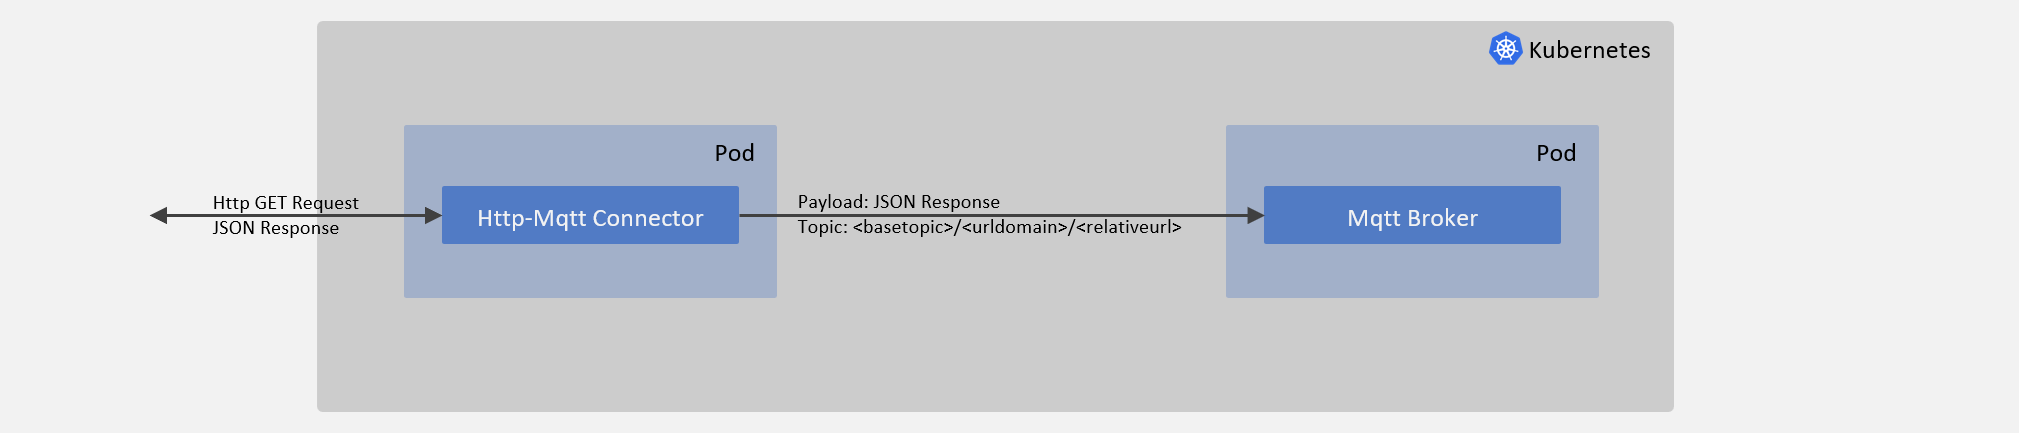
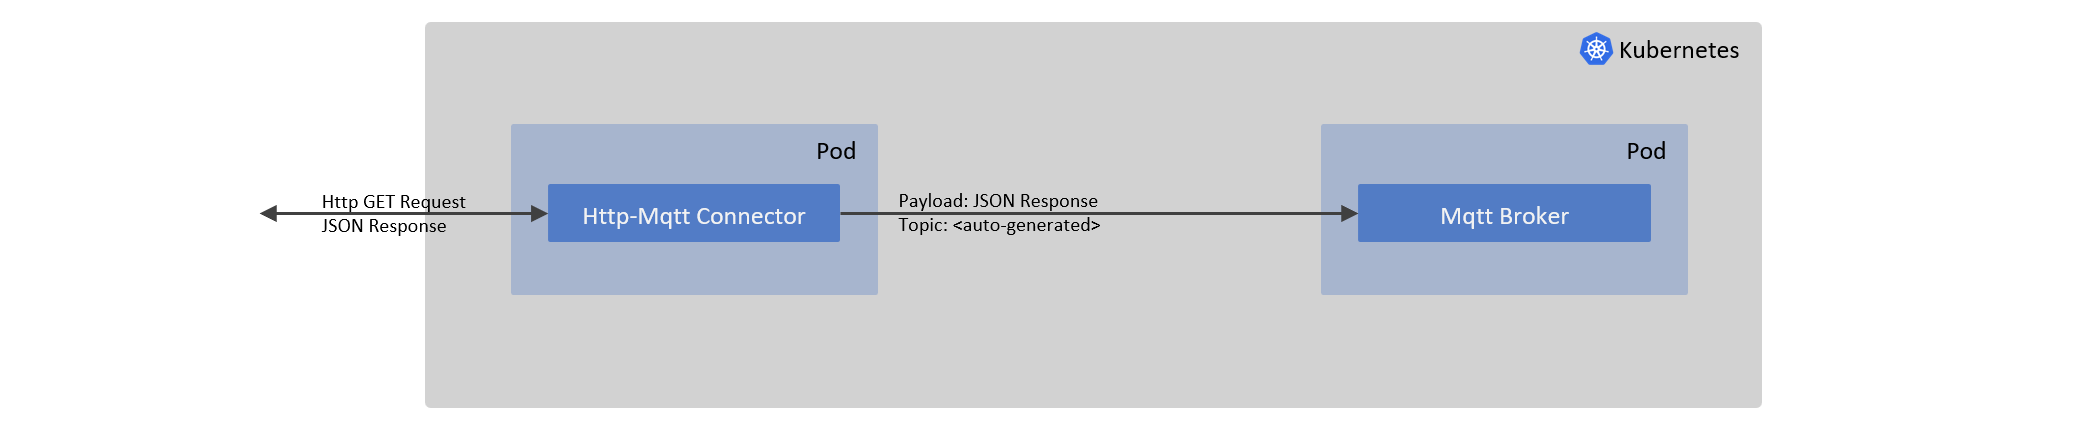
Updated docs, removed requirement for replacement section.

Changed region(s): [[0.0624, 0.0302, 0.8425, 0.9652]]

diff --git a/Http.Mqtt.Connector.Svc/MqttDataSink.cs b/Http.Mqtt.Connector.Svc/MqttDataSink.cs
@@ -69,7 +69,7 @@ public class MqttDataSink : IDataSink
         _sourceId = sourceId ?? throw new ArgumentNullException(nameof(sourceId));
         _initialBackoffDelayInMilliseconds = initialBackoffDelayInMilliseconds;
         _maxBackoffDelayInMilliseconds = maxBackoffDelayInMilliseconds;
-        _topicStringReplacements = topicStringReplacements ?? throw new ArgumentNullException(nameof(topicStringReplacements));
+        _topicStringReplacements = topicStringReplacements;
 
         // Generate the topic name for MQTT sink
         ArgumentNullException.ThrowIfNull(baseTopic);
@@ -168,10 +168,13 @@ public class MqttDataSink : IDataSink
             hash.Append(bytes[i].ToString("x2"));
         }
 
-        // Replace invalid characters in the topic name.
-        foreach (var replacement in _topicStringReplacements)
+        // Replace invalid strings in the topic name if configured.
+        if (_topicStringReplacements is not null)
         {
-            topic = topic.Replace(replacement.OldValue, replacement.NewValue, StringComparison.InvariantCultureIgnoreCase);
+            foreach (var replacement in _topicStringReplacements)
+            {
+                topic = topic.Replace(replacement.OldValue, replacement.NewValue, StringComparison.InvariantCultureIgnoreCase);
+            }
         }
 
         return $"{baseTopic}{hash.ToString()}/{topic}";

diff --git a/docs/AppSettings.md b/docs/AppSettings.md
@@ -4,16 +4,35 @@
 
 The appsettings.json example below is configured to poll the following endpoints and send the respective responses to the configured MQTT broker.
 
-## Supported Macros
+## Supported Customizations
 
-Relative Urls support the following macros:
+### Relative Urls Support the Following Macros
 
-1. ```{yyyy-mm-dd}``` will replace it with the current date, example
+1. ```{yyyy-mm-dd}``` will replace it with the current date, example:
 
    ```/api/breed/hound/list/{yyyy-mm-dd}``` -> ```/api/breed/hound/list/2024-10-09```
-2. ```{yyyy-mm}``` will replace it with the current date, example
+2. ```{yyyy-mm}``` will replace it with the current date, example:
 
    ```/api/breed/hound/{yyyy-mm}/list``` -> ```/api/breed/hound/2024-10/list```
+
+### MQTT Topic Name Generation and Customization
+
+MQTT topic name is auto generated by the application for each relative endpoint, as an example:
+
+Given the following (from example config below):
+
+1. Base Topic: `azure-iot-operations/data/`
+2. Endpoint Url: `https://dog.ceo`
+3. Relative Endpoint Url: `/api/breed/hound/list`
+
+Steps used to generate the MQTT topic are:
+
+1. Acquire unique source Id of the source where data is read, http in this instance will have a source Id as a fully qualified url i.e. "Endpoint Url + Relative Endpoint Url" (`https://dog.ceo/api/breed/hound/list`).
[1 lines of base64/hex data omitted]
+3. Replace characters and strings from config section `TopicStringReplacements` in source Id i.e. `https-//dog_ceo/api/breed/hound/list`.
+4. Concatenate strings using the formula `<Base Topic> + <SHA256 Hash from Step 2> + <Source Id from Step 3>` i.e. `azure-iot-operations/data/8bed43594758bdc7252817cb47391a06bc4a065ab78b1e63bfe6349439430165/https-//dog_ceo/api/breed/bulldog/list`
+
+> **Note:** AIO's current version (v0.8.32) has a bug in UI which does not allow all valid MQTT topic name characters e.g. dot(.), colon (:) to be configured. `TopicStringReplacements` section in the config below allows you to replace these characters/strings in the default generated (as above) topic name.
 
 ## Example appsettings.json for AIO MQTT broker
 
@@ -58,7 +77,33 @@ Relative Urls support the following macros:
     "UseTls": true,
     "SatFilePath": "/var/run/secrets/tokens/broker-sat",
     "CaFilePath": "/var/run/certs/ca.crt",
-    "BaseTopic": "azure-iot-operations/data/"
+    "BaseTopic": "azure-iot-operations/data/",
+    "TopicStringReplacements": [
+      {
+        "OldValue": "#",
+        "NewValue": "_"
+      },
+      {
+        "OldValue": "+",
+        "NewValue": "_"
+      },
+      {
+        "OldValue": ".",
+        "NewValue": "_"
+      },
+      {
+        "OldValue": "{",
+        "NewValue": "_"
+      },
+      {
+        "OldValue": "}",
+        "NewValue": "_"
+      },
+      {
+        "OldValue": ":",
+        "NewValue": "-"
+      }
+    ]
   },
   "Logging": {
     "LogLevel": {
@@ -112,7 +157,33 @@ Relative Urls support the following macros:
     "UseTls": false,
     "Username": "",
     "Password": "",
-    "BaseTopic": "azure-iot-operations/data/"
+    "BaseTopic": "azure-iot-operations/data/",
+    "TopicStringReplacements": [
+      {
+        "OldValue": "#",
+        "NewValue": "_"
+      },
+      {
+        "OldValue": "+",
+        "NewValue": "_"
+      },
+      {
+        "OldValue": ".",
+        "NewValue": "_"
+      },
+      {
+        "OldValue": "{",
+        "NewValue": "_"
+      },
+      {
+        "OldValue": "}",
+        "NewValue": "_"
+      },
+      {
+        "OldValue": ":",
+        "NewValue": "-"
+      }
+    ]
   },
   "Logging": {
     "LogLevel": {

diff --git a/README.md b/README.md
@@ -6,7 +6,7 @@ A repo to periodically read data from RESTful APIs and publish it on MQTT broker
 
 ![Design](docs/Design.png)
 
-> **Note:** A temporary fix has been made to this repo to remove dots (.) from `<urldomain>` and `<relativeurl>` in the topic creation macro, due to a bug in AIO. Dots (.) are replaced with underscores (_).
+> **Note:** To understand MQTT topic generation and its customization options please refer to the document [here](docs/AppSettings.md#Supported-Customizations).
 
 ## Features
 
